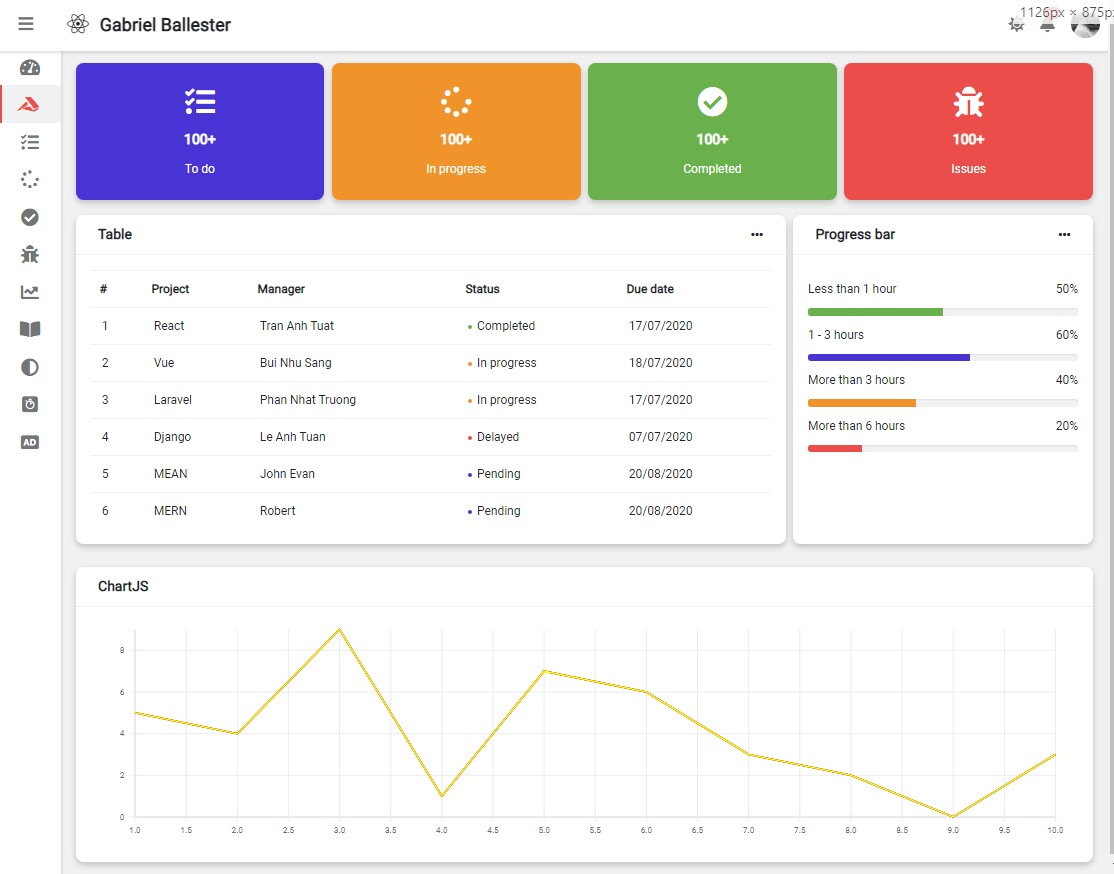
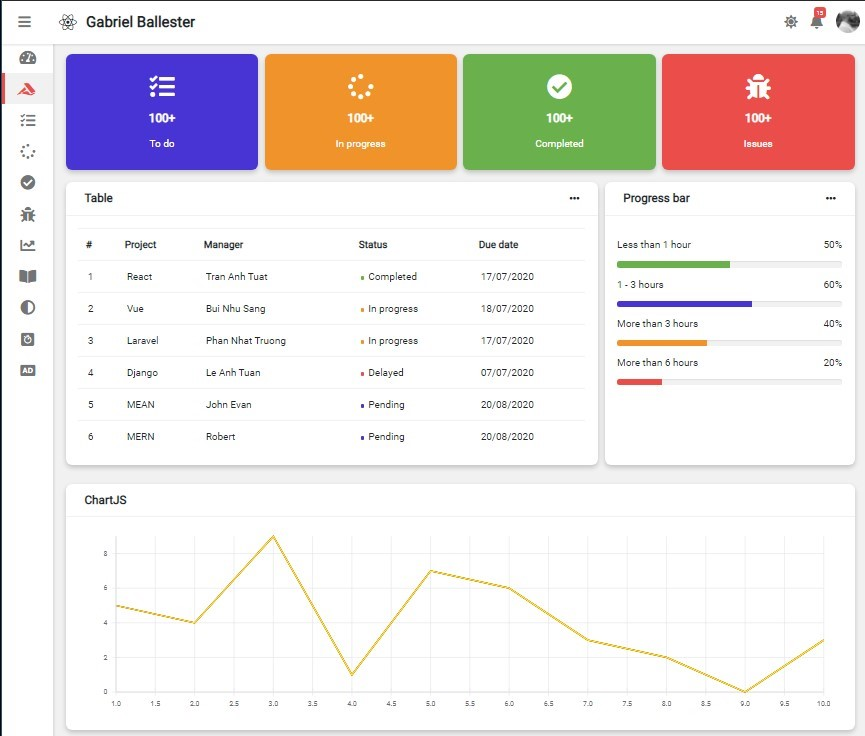
Añadido react admin panel v3

diff --git a/src/template.html b/src/template.html
@@ -261,7 +261,39 @@
         </div>
         <!-- /END Project -->
 
-        
+        <br><br><br><br><br><br><br><br>
+        <!-- React panel de administración v3 Dark / light mode + sidebar ocultable -->
+        <div class="row">
+          <div class="col-lg-4 col-sm-12">
+            <div class="project-wrapper__text">
+              <h3 class="project-wrapper__text-title">React CSS Grid admin panel v3 Dark / light mode + sidebar ocultable usando + responsive</h3>
+              <div>
+                <p class="mb-4">
+                  Panel de administración en React + CSS Grid, totalmente "resonsive" para móvil y tablet + sidebar ocultable/mostrable.
+                </p>
+                <p class="mb-4">
+                  Tanto el cambio de theme como el manejo del sidebar son a través de props con useState
+                </p>
+              </div>
+
+              <a target="_blank" class="cta-btn text-color-main"
+                href="https://github.com/gabyballester/react-panel-admin-v3-dark-light-modes-cssgrid">
+                Ver código en github
+              </a>
+
+            </div>
+          </div>
+          <div class="col-lg-8 col-sm-12">
+            <div class="project-wrapper__image">
+              <a href="https://github.com/gabyballester/react-panel-admin-v3-dark-light-modes-cssgrid" target="_blank">
+                <div data-tilt class="thumbnail rounded">
+                  <img class="img-fluid" src="./assets/project-images/react-panel-v3.jpg" />
+                </div>
+              </a>
+            </div>
+          </div>
+        </div>
+        <!-- /END Project -->
 
         <br><br><br><br><br><br><br><br>
         <!-- To-do Web App Fullstack PERN -->
